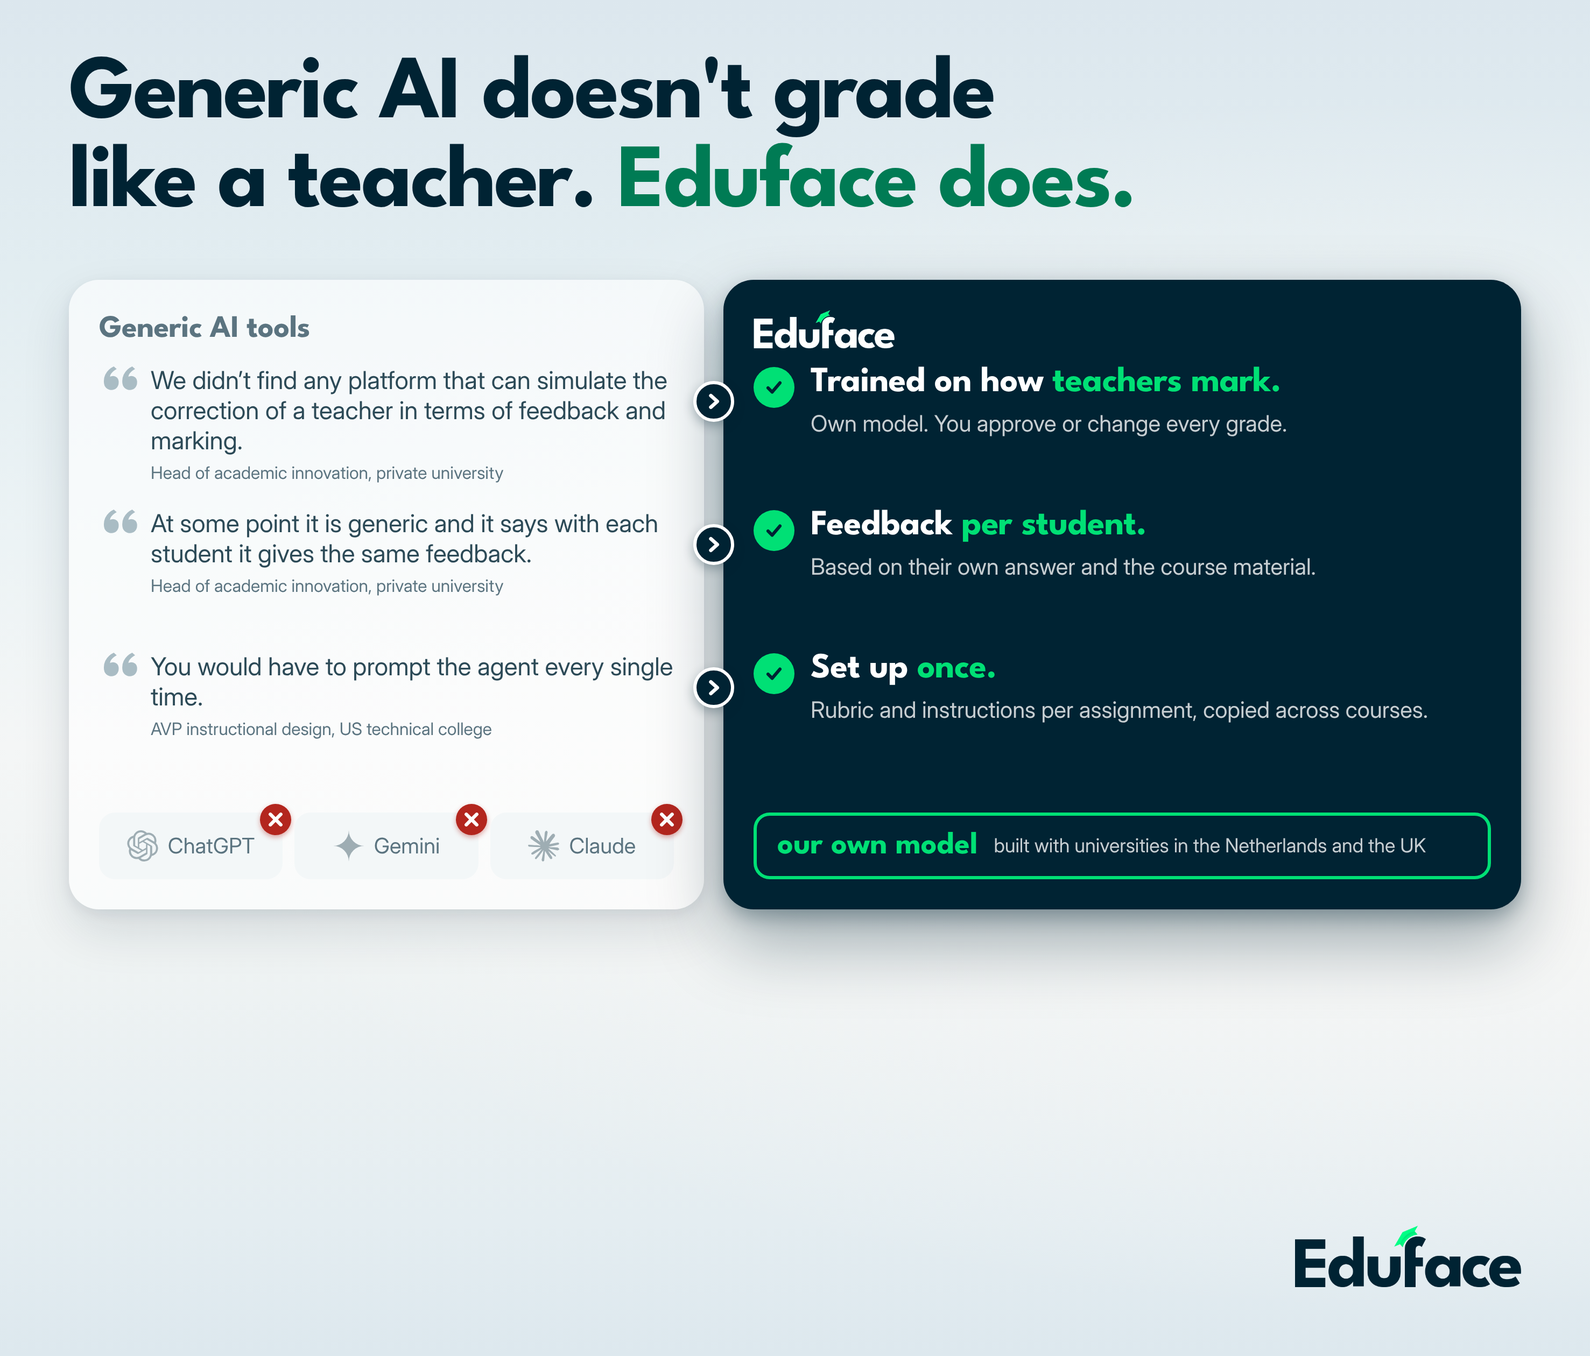
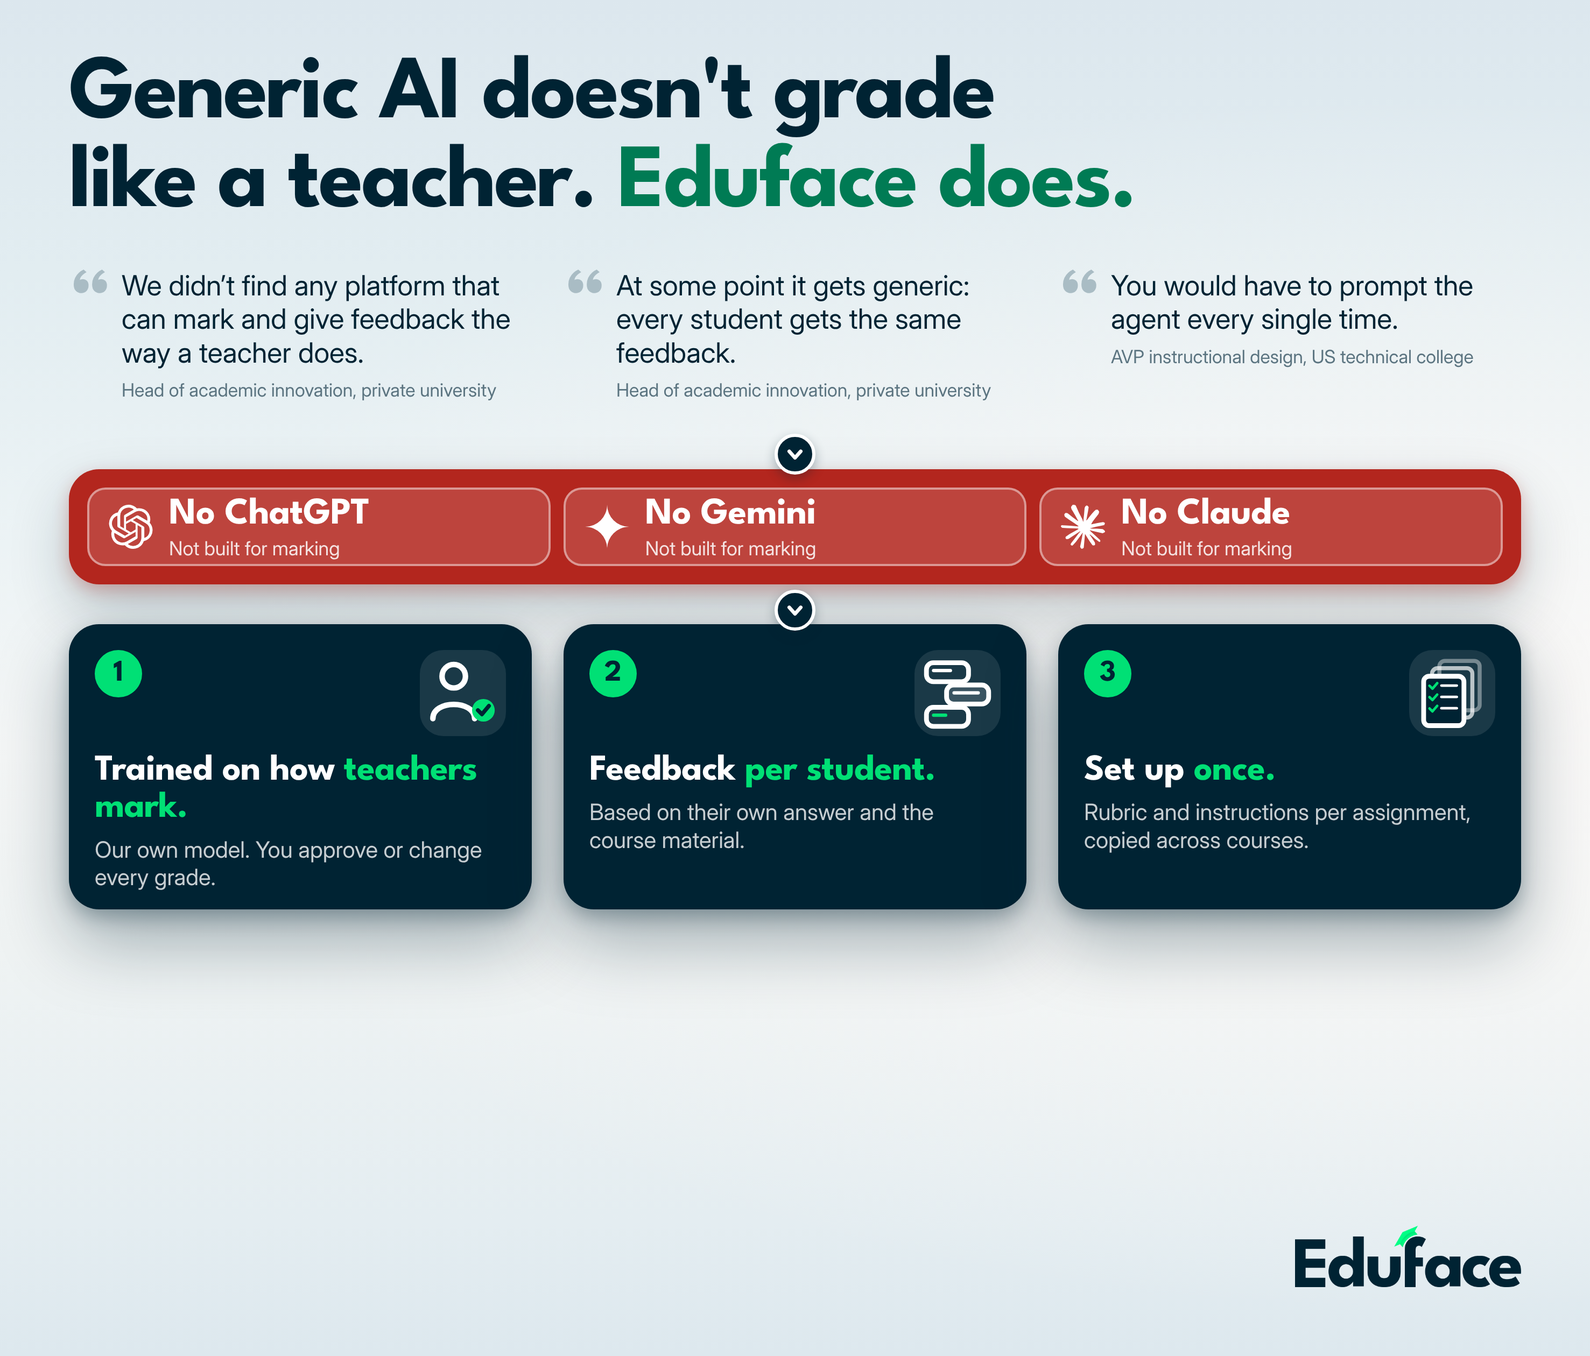
Backwall: verticaal ontwerp met losse quotes, rode no-band en drie genummerde kaarten
Claude-Session: https://claude.ai/code/session_011t24oRcD5DFuXzKigdVhtb

diff --git a/creatives/beurs-backwall/backwall.html b/creatives/beurs-backwall/backwall.html
@@ -22,31 +22,29 @@
   .h1 { position: absolute; left: 128px; top: 96px; font: 700 168px/.98 "League Spartan"; letter-spacing: -.025em; color: var(--navy); white-space: nowrap; }
   .h1 em { font-style: normal; color: var(--gd); }
 
-  .card { position: absolute; top: 520px; height: 1170px; padding: 56px; border-radius: 56px; display: flex; flex-direction: column; gap: 30px; }
-  .card.generic { left: 128px; width: 1180px; background: rgba(255,255,255,.62); box-shadow: 0 8px 24px rgba(0,35,51,.07), 0 40px 90px rgba(0,35,51,.12); }
-  .card.ours { left: 1344px; width: 1482px; background: var(--navy); color: #fff; box-shadow: 0 14px 34px rgba(0,35,51,.28), 0 60px 130px rgba(0,35,51,.36); }
-  .tag { height: 72px; flex-shrink: 0; display: flex; align-items: center; }
-  .generic .tag { font: 700 58px/1 "League Spartan"; color: var(--i5); letter-spacing: -.01em; }
+  /* verticaal: titel, quotes, rode band, drie kaarten. 3 kolommen: x 128, 1047, 1966, breed 860. */
+  .q { position: absolute; top: 500px; width: 860px; display: flex; gap: 22px; }
+  .qm { font: 700 150px/.8 "League Spartan"; color: var(--i3); width: 76px; flex: none; margin-top: 6px; }
+  .qt { font: 400 52px/1.2 Inter; color: var(--navy); }
+  .qa { font: 400 34px/1.2 Inter; color: var(--i5); margin-top: 18px; }
 
-  .qrow { height: 236px; flex-shrink: 0; display: flex; gap: 26px; align-items: flex-start; }
-  .qm { font: 700 150px/.8 "League Spartan"; color: var(--i3); width: 70px; flex: none; margin-top: 8px; }
-  .qt { font: 400 46px/1.22 Inter; color: var(--i7); }
-  .qa { font: 400 32px/1.2 Inter; color: var(--i5); margin-top: 14px; }
+  .band { position: absolute; left: 128px; top: 872px; width: 2698px; height: 214px; border-radius: 56px; background: var(--red);
+    padding: 34px; display: flex; gap: 24px; box-shadow: 0 12px 30px rgba(179,38,30,.28), 0 50px 110px rgba(0,35,51,.22); }
+  .no { flex: 1; border-radius: 34px; background: rgba(255,255,255,.14); box-shadow: inset 0 0 0 4px rgba(255,255,255,.45); display: flex; align-items: center; gap: 30px; padding: 0 40px; color: #fff; }
+  .no img { width: 82px; height: 82px; filter: brightness(0) invert(1); }
+  .no .n1 { font: 700 70px/1 "League Spartan"; letter-spacing: -.01em; white-space: nowrap; }
+  .no .n2 { font: 400 36px/1 Inter; color: rgba(255,255,255,.85); margin-top: 10px; }
 
-  .arow { height: 236px; flex-shrink: 0; display: flex; gap: 30px; align-items: flex-start; }
-  .chk { flex: none; width: 76px; height: 76px; border-radius: 50%; background: var(--g); display: flex; align-items: center; justify-content: center; margin-top: 4px; }
-  .a1 { font: 700 66px/1.02 "League Spartan"; letter-spacing: -.01em; color: #fff; }
+  .adv { position: absolute; top: 1160px; width: 860px; height: 530px; padding: 48px; border-radius: 56px; background: var(--navy); color: #fff;
+    box-shadow: 0 14px 34px rgba(0,35,51,.28), 0 60px 130px rgba(0,35,51,.34); }
+  .adv .top { display: flex; justify-content: space-between; align-items: flex-start; }
+  .num { width: 88px; height: 88px; border-radius: 50%; background: var(--g); color: var(--navy); display: flex; align-items: center; justify-content: center; font: 700 56px/1 "League Spartan"; }
+  .ic { width: 160px; height: 160px; border-radius: 44px; background: rgba(255,255,255,.1); display: flex; align-items: center; justify-content: center; }
+  .a1 { font: 700 68px/1.02 "League Spartan"; letter-spacing: -.01em; margin-top: 30px; }
   .a1 span { color: var(--g); }
   .a2 { font: 400 42px/1.22 Inter; color: rgba(255,255,255,.78); margin-top: 16px; }
 
-  .logos { display: flex; gap: 22px; margin-top: auto; flex-shrink: 0; }
-  .lg { position: relative; flex: 1; height: 124px; border-radius: 30px; background: var(--i50); display: flex; align-items: center; justify-content: center; gap: 18px; font: 400 40px/1 Inter; color: var(--i5); }
-  .lg img { width: 58px; height: 58px; opacity: .8; }
-  .x { position: absolute; top: -16px; right: -16px; width: 58px; height: 58px; border-radius: 50%; background: var(--red); box-shadow: 0 4px 10px rgba(179,38,30,.4); }
-  .ownstrip { margin-top: auto; flex-shrink: 0; height: 124px; border-radius: 30px; box-shadow: inset 0 0 0 6px var(--g); display: flex; align-items: center; gap: 30px; padding: 0 44px; }
-  .ownstrip .t1 { font: 700 58px/1 "League Spartan"; color: var(--g); white-space: nowrap; }
-  .ownstrip .t2 { font: 400 36px/1.15 Inter; color: rgba(255,255,255,.78); }
-  .link { position: absolute; width: 76px; height: 76px; border-radius: 50%; background: var(--navy); display: flex; align-items: center; justify-content: center; border: 6px solid #fff; box-shadow: 0 8px 20px rgba(0,35,51,.30); z-index: 5; }
+  .link { position: absolute; width: 76px; height: 76px; border-radius: 50%; background: var(--navy); display: flex; align-items: center; justify-content: center; border: 6px solid #fff; box-shadow: 0 8px 20px rgba(0,35,51,.30); z-index: 5; left: 1439px; }
 </style>
 </head>
 <body>
@@ -56,41 +54,43 @@
   </div>
 
 <script>
-const N='#002333', G='#00e075', RED='#b3261e';
+const N='#002333', G='#00e075', W='#fff';
 const L=(f)=>`assets/logos/${f}.svg`;
-const xBadge=`<div class="x"><svg width="58" height="58" viewBox="0 0 54 54"><path d="M18,18 L36,36 M36,18 L18,36" stroke="#fff" stroke-width="6" stroke-linecap="round"/></svg></div>`;
-const chk=`<div class="chk"><svg width="46" height="46" viewBox="0 0 54 54"><path d="M14,28 L23,37 L40,17" fill="none" stroke="${N}" stroke-width="7" stroke-linecap="round" stroke-linejoin="round"/></svg></div>`;
-const chev=`<svg width="40" height="40" viewBox="0 0 30 30"><polyline points="11,7 20,15 11,23" fill="none" stroke="#fff" stroke-width="5" stroke-linecap="round" stroke-linejoin="round"/></svg>`;
+const chevD=`<svg width="40" height="40" viewBox="0 0 30 30"><polyline points="7,11 15,20 23,11" fill="none" stroke="#fff" stroke-width="5" stroke-linecap="round" stroke-linejoin="round"/></svg>`;
+const sv=(inner,s=136)=>`<svg width="${s}" height="${s}" viewBox="0 0 400 400">${inner}</svg>`;
 
-/* Bron: Eduface case study 25-11-2026. Quotes woordelijk, functie anoniem. */
+/* Quotes: bron Eduface case study 25-11-2026, licht bewerkt voor correct Engels. Functie anoniem. */
 const Q=[
- {q:'We didn\u2019t find any platform that can simulate the correction of a teacher in terms of feedback and marking.', a:'Head of academic innovation, private university'},
- {q:'At some point it is generic and it says with each student it gives the same feedback.', a:'Head of academic innovation, private university'},
+ {q:'We didn\u2019t find any platform that can mark and give feedback the way a teacher does.', a:'Head of academic innovation, private university'},
+ {q:'At some point it gets generic: every student gets the same feedback.', a:'Head of academic innovation, private university'},
  {q:'You would have to prompt the agent every single time.', a:'AVP instructional design, US technical college'}
 ];
-const A=[
- {h:'Trained on how <span>teachers mark.</span>', t:'Own model. You approve or change every grade.'},
- {h:'Feedback <span>per student.</span>', t:'Based on their own answer and the course material.'},
- {h:'Set up <span>once.</span>', t:'Rubric and instructions per assignment, copied across courses.'}
+const X=[128,1047,1966];
+const quotes=Q.map((r,i)=>`<div class="q" style="left:${X[i]}px"><div class="qm">\u201C</div><div><div class="qt">${r.q}</div><div class="qa">${r.a}</div></div></div>`).join('');
+
+const no=(img,name)=>`<div class="no"><img src="${L(img)}"><div><div class="n1">No ${name}</div><div class="n2">Not built for marking</div></div></div>`;
+const band=`<div class="band">${no('openai','ChatGPT')}${no('googlegemini','Gemini')}${no('claude','Claude')}</div>`;
+
+/* iconen (wit op navy, groene accenten) */
+const icTeacher=sv(`<circle cx="150" cy="108" r="64" fill="none" stroke="${W}" stroke-width="30"/><path d="M36,340 C36,236 264,236 264,340" fill="none" stroke="${W}" stroke-width="30" stroke-linecap="round"/><circle cx="312" cy="294" r="62" fill="${G}"/><polyline points="282,294 304,316 342,270" fill="none" stroke="${N}" stroke-width="22" stroke-linecap="round" stroke-linejoin="round"/>`);
+const icBubbles=sv(`<rect x="30" y="34" width="230" height="104" rx="38" fill="none" stroke="${W}" stroke-width="26"/><rect x="60" y="68" width="110" height="18" rx="9" fill="${W}"/>
+  <rect x="140" y="156" width="230" height="104" rx="38" fill="rgba(255,255,255,.14)" stroke="${W}" stroke-width="26"/><rect x="172" y="190" width="150" height="18" rx="9" fill="${W}"/>
+  <rect x="30" y="278" width="230" height="104" rx="38" fill="none" stroke="${W}" stroke-width="26"/><rect x="60" y="312" width="84" height="18" rx="9" fill="${G}"/>`);
+const icSheets=sv(`<rect x="130" y="24" width="220" height="270" rx="30" fill="none" stroke="${W}" stroke-width="22" opacity=".4"/>
+  <rect x="90" y="64" width="220" height="270" rx="30" fill="none" stroke="${W}" stroke-width="22" opacity=".7"/>
+  <rect x="44" y="108" width="220" height="270" rx="30" fill="${N}" stroke="${W}" stroke-width="26"/>
+  ${[160,222,284].map(y=>`<polyline points="76,${y} 92,${y+16} 118,${y-14}" fill="none" stroke="${G}" stroke-width="14" stroke-linecap="round" stroke-linejoin="round"/><rect x="134" y="${y-8}" width="98" height="14" rx="7" fill="${W}"/>`).join('')}`);
+
+const ADV=[
+ {ic:icTeacher, h:'Trained on how <span>teachers mark.</span>', t:'Our own model. You approve or change every grade.'},
+ {ic:icBubbles, h:'Feedback <span>per student.</span>', t:'Based on their own answer and the course material.'},
+ {ic:icSheets,  h:'Set up <span>once.</span>', t:'Rubric and instructions per assignment, copied across courses.'}
 ];
-
-const GEN =
- `<div class="tag">Generic AI tools</div>`+
- Q.map(r=>`<div class="qrow"><div class="qm">\u201C</div><div><div class="qt">${r.q}</div><div class="qa">${r.a}</div></div></div>`).join('')+
- `<div class="logos"><div class="lg"><img src="${L('openai')}">ChatGPT${xBadge}</div><div class="lg"><img src="${L('googlegemini')}">Gemini${xBadge}</div><div class="lg"><img src="${L('claude')}">Claude${xBadge}</div></div>`;
-
-const OURS =
- `<div class="tag"><img src="assets/logos/eduface-white.png" style="height:72px;width:auto"></div>`+
- A.map(r=>`<div class="arow">${chk}<div><div class="a1">${r.h}</div><div class="a2">${r.t}</div></div></div>`).join('')+
- `<div class="ownstrip"><div class="t1">our own model</div><div class="t2">built with universities in the Netherlands and the UK</div></div>`;
-
-/* pijlknopen tussen quote-rij en antwoord-rij */
-const top0=520+56+72+30, step=236+30;
-const nodes=[0,1,2].map(i=>`<div class="link" style="left:${128+1180+18-38}px;top:${top0+i*step+30}px">${chev}</div>`).join('');
+const adv=ADV.map((r,i)=>`<div class="adv" style="left:${X[i]}px"><div class="top"><div class="num">${i+1}</div><div class="ic">${r.ic}</div></div><div class="a1">${r.h}</div><div class="a2">${r.t}</div></div>`).join('');
 
 document.getElementById('layer-content').innerHTML =
- `<div class="h1">Generic AI doesn't grade<br>like a teacher. <em>Eduface does.</em></div>
-  <div class="card generic">${GEN}</div><div class="card ours">${OURS}</div>${nodes}`;
+ `<div class="h1">Generic AI doesn't grade<br>like a teacher. <em>Eduface does.</em></div>${quotes}
+  <div class="link" style="top:806px">${chevD}</div>${band}<div class="link" style="top:1096px">${chevD}</div>${adv}`;
 </script>
 </body>
 </html>

diff --git a/creatives/beurs-backwall/backwall-quotes-naast-kaarten-2026-11-25.html b/creatives/beurs-backwall/backwall-quotes-naast-kaarten-2026-11-25.html
@@ -1,0 +1,96 @@
+<!doctype html>
+<html lang="en">
+<head>
+<meta charset="utf-8">
+<title>Beurs backwall</title>
+<style>
+  /* Canvas: 1 px = 1 mm. Wand is 2954 x 2520 mm. Onderste derde (vanaf y 1700) blijft leeg: dat zit aan de grond. */
+  @font-face { font-family: "League Spartan"; font-weight: 700; src: url("../../Design/Merk/fonts/LeagueSpartan-Bold.ttf"); }
+  @font-face { font-family: "Inter"; font-weight: 400; src: url("../../Design/Merk/fonts/Inter-Regular.ttf"); }
+  :root { --w: 2954px; --h: 2520px; --navy: #002333; --gd: #007b54; --g: #00e075; --i7: #2c4a57; --i5: #5b7480; --i3: #a9bcc4; --i2: #cdd9de; --i50: #f3f7f8; --red: #b3261e; }
+  * { margin: 0; box-sizing: border-box; }
+  html, body { width: var(--w); height: var(--h); }
+  .wall {
+    position: relative; width: var(--w); height: var(--h); overflow: hidden; color: var(--navy);
+    background:
+      radial-gradient(ellipse 80% 45% at 90% 52%, #f9f8f7 0%, rgba(249,248,247,0) 100%),
+      linear-gradient(180deg, #dce7ee 0%, #e2edf1 20%, #ecf3f5 40%, #f4f6f6 55%, #eff3f3 70%, #e4edf1 90%, #dde8ee 100%);
+  }
+  .abs { position: absolute; }
+  .logo { position: absolute; right: 128px; bottom: 128px; width: 420px; height: auto; }
+
+  .h1 { position: absolute; left: 128px; top: 96px; font: 700 168px/.98 "League Spartan"; letter-spacing: -.025em; color: var(--navy); white-space: nowrap; }
+  .h1 em { font-style: normal; color: var(--gd); }
+
+  .card { position: absolute; top: 520px; height: 1170px; padding: 56px; border-radius: 56px; display: flex; flex-direction: column; gap: 30px; }
+  .card.generic { left: 128px; width: 1180px; background: rgba(255,255,255,.62); box-shadow: 0 8px 24px rgba(0,35,51,.07), 0 40px 90px rgba(0,35,51,.12); }
+  .card.ours { left: 1344px; width: 1482px; background: var(--navy); color: #fff; box-shadow: 0 14px 34px rgba(0,35,51,.28), 0 60px 130px rgba(0,35,51,.36); }
+  .tag { height: 72px; flex-shrink: 0; display: flex; align-items: center; }
+  .generic .tag { font: 700 58px/1 "League Spartan"; color: var(--i5); letter-spacing: -.01em; }
+
+  .qrow { height: 236px; flex-shrink: 0; display: flex; gap: 26px; align-items: flex-start; }
+  .qm { font: 700 150px/.8 "League Spartan"; color: var(--i3); width: 70px; flex: none; margin-top: 8px; }
+  .qt { font: 400 46px/1.22 Inter; color: var(--i7); }
+  .qa { font: 400 32px/1.2 Inter; color: var(--i5); margin-top: 14px; }
+
+  .arow { height: 236px; flex-shrink: 0; display: flex; gap: 30px; align-items: flex-start; }
+  .chk { flex: none; width: 76px; height: 76px; border-radius: 50%; background: var(--g); display: flex; align-items: center; justify-content: center; margin-top: 4px; }
+  .a1 { font: 700 66px/1.02 "League Spartan"; letter-spacing: -.01em; color: #fff; }
+  .a1 span { color: var(--g); }
+  .a2 { font: 400 42px/1.22 Inter; color: rgba(255,255,255,.78); margin-top: 16px; }
+
+  .logos { display: flex; gap: 22px; margin-top: auto; flex-shrink: 0; }
+  .lg { position: relative; flex: 1; height: 124px; border-radius: 30px; background: var(--i50); display: flex; align-items: center; justify-content: center; gap: 18px; font: 400 40px/1 Inter; color: var(--i5); }
+  .lg img { width: 58px; height: 58px; opacity: .8; }
+  .x { position: absolute; top: -16px; right: -16px; width: 58px; height: 58px; border-radius: 50%; background: var(--red); box-shadow: 0 4px 10px rgba(179,38,30,.4); }
+  .ownstrip { margin-top: auto; flex-shrink: 0; height: 124px; border-radius: 30px; box-shadow: inset 0 0 0 6px var(--g); display: flex; align-items: center; gap: 30px; padding: 0 44px; }
+  .ownstrip .t1 { font: 700 58px/1 "League Spartan"; color: var(--g); white-space: nowrap; }
+  .ownstrip .t2 { font: 400 36px/1.15 Inter; color: rgba(255,255,255,.78); }
+  .link { position: absolute; width: 76px; height: 76px; border-radius: 50%; background: var(--navy); display: flex; align-items: center; justify-content: center; border: 6px solid #fff; box-shadow: 0 8px 20px rgba(0,35,51,.30); z-index: 5; }
+</style>
+</head>
+<body>
+  <div class="wall" id="wall">
+    <div id="layer-content"></div>
+    <img class="logo" src="../../Design/Merk/logos/logo_navy.png" alt="Eduface">
+  </div>
+
+<script>
+const N='#002333', G='#00e075', RED='#b3261e';
+const L=(f)=>`assets/logos/${f}.svg`;
+const xBadge=`<div class="x"><svg width="58" height="58" viewBox="0 0 54 54"><path d="M18,18 L36,36 M36,18 L18,36" stroke="#fff" stroke-width="6" stroke-linecap="round"/></svg></div>`;
+const chk=`<div class="chk"><svg width="46" height="46" viewBox="0 0 54 54"><path d="M14,28 L23,37 L40,17" fill="none" stroke="${N}" stroke-width="7" stroke-linecap="round" stroke-linejoin="round"/></svg></div>`;
+const chev=`<svg width="40" height="40" viewBox="0 0 30 30"><polyline points="11,7 20,15 11,23" fill="none" stroke="#fff" stroke-width="5" stroke-linecap="round" stroke-linejoin="round"/></svg>`;
+
+/* Bron: Eduface case study 25-11-2026. Quotes woordelijk, functie anoniem. */
+const Q=[
+ {q:'We didn\u2019t find any platform that can simulate the correction of a teacher in terms of feedback and marking.', a:'Head of academic innovation, private university'},
+ {q:'At some point it is generic and it says with each student it gives the same feedback.', a:'Head of academic innovation, private university'},
+ {q:'You would have to prompt the agent every single time.', a:'AVP instructional design, US technical college'}
+];
+const A=[
+ {h:'Trained on how <span>teachers mark.</span>', t:'Own model. You approve or change every grade.'},
+ {h:'Feedback <span>per student.</span>', t:'Based on their own answer and the course material.'},
+ {h:'Set up <span>once.</span>', t:'Rubric and instructions per assignment, copied across courses.'}
+];
+
+const GEN =
+ `<div class="tag">Generic AI tools</div>`+
+ Q.map(r=>`<div class="qrow"><div class="qm">\u201C</div><div><div class="qt">${r.q}</div><div class="qa">${r.a}</div></div></div>`).join('')+
+ `<div class="logos"><div class="lg"><img src="${L('openai')}">ChatGPT${xBadge}</div><div class="lg"><img src="${L('googlegemini')}">Gemini${xBadge}</div><div class="lg"><img src="${L('claude')}">Claude${xBadge}</div></div>`;
+
+const OURS =
+ `<div class="tag"><img src="assets/logos/eduface-white.png" style="height:72px;width:auto"></div>`+
+ A.map(r=>`<div class="arow">${chk}<div><div class="a1">${r.h}</div><div class="a2">${r.t}</div></div></div>`).join('')+
+ `<div class="ownstrip"><div class="t1">our own model</div><div class="t2">built with universities in the Netherlands and the UK</div></div>`;
+
+/* pijlknopen tussen quote-rij en antwoord-rij */
+const top0=520+56+72+30, step=236+30;
+const nodes=[0,1,2].map(i=>`<div class="link" style="left:${128+1180+18-38}px;top:${top0+i*step+30}px">${chev}</div>`).join('');
+
+document.getElementById('layer-content').innerHTML =
+ `<div class="h1">Generic AI doesn't grade<br>like a teacher. <em>Eduface does.</em></div>
+  <div class="card generic">${GEN}</div><div class="card ours">${OURS}</div>${nodes}`;
+</script>
+</body>
+</html>

diff --git a/Context/open-vragen.md b/Context/open-vragen.md
@@ -33,7 +33,7 @@ De enige plek waar openstaande vragen aan Dante staan. Een vraag die hier staat 
 | V10 | **Risicoprofiel onder de AI Act, per gebruik.** Voorstel: formatieve feedback zonder scores = laag (onderbouwing onder art. 6 lid 3 vastleggen), summatief scoren = hoog (bijlage III, leerresultaten beoordelen). Bevestig je dat, en wat is de situatie bij de RBS? | Een instelling vraagt het letterlijk (RBS-vragenlijst). "Geen scores" alleen is geen vrijbrief, bijlage III noemt ook leerresultaten die het leerproces sturen. | 02-10-2026 |
 | V11 | Werkt alles in de browser zonder lokale installatie, kunnen functies per instelling aan en uit, wat moet een instelling technisch inrichten (LMS-koppeling, SSO, accountbeheer), en kunnen studenten zelf verwijderen? | Staat geel in `GTM/Knowledge/privacy-vragenlijsten/antwoorden-privacy-it-vragen-2026-10-02.docx`. | 02-10-2026 |
 | V12 | Continuïteit van het bedrijf zelf (financiering, team, exit- of escrowregeling) en het aantal getekende verwerkersovereenkomsten met Nederlandse instellingen. | Zelfde vragenlijst, vraag 9 en 12. | 02-10-2026 |
-| V15 | **Mogen de klantquotes (functie anoniem, zonder land) op de publieke beurswand?** Gaat om drie quotes uit de case study van 25-11-2026: Head of academic innovation (private university) twee keer, en AVP instructional design (US technical college) over ChatGPT-agents. | Een klant woordelijk citeren op een publieke wand vraagt toestemming, ook anoniem, want de functie plus het type instelling is herleidbaar. |  25-11-2026 |
+| V15 | **Mogen de klantquotes (functie anoniem, zonder land) op de publieke beurswand?** Gaat om drie quotes uit de case study van 25-11-2026: Head of academic innovation (private university) twee keer, en AVP instructional design (US technical college) over ChatGPT-agents. | De wand toont de quotes **licht bewerkt voor correct Engels** (25-11-2026): leg de bewerkte versie aan hen voor, niet het origineel. Een klant citeren op een publieke wand vraagt toestemming, ook anoniem, want de functie plus het type instelling is herleidbaar. |  25-11-2026 |
 | V16 | **Mag "the only" erbij, en is "twee keer dezelfde opdracht, twee keer een ander cijfer" bij ChatGPT, Gemini en Claude een eigen test (wanneer, hoeveel runs)?** Beide staan nu niet op de wand. De wand houdt zich aan wat de case study onderbouwt. | "The only" is een superlatief die een bezoeker kan weerleggen. De consistentie-claim heeft een bron nodig voor hij erbij kan. | 25-11-2026 |
 
 ## Later, geen vraag maar een richting
